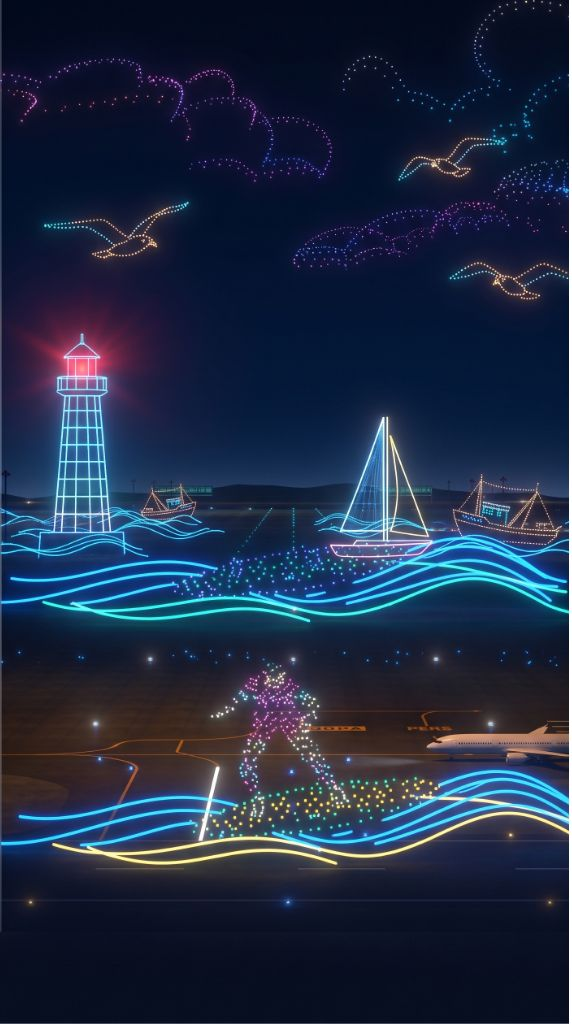
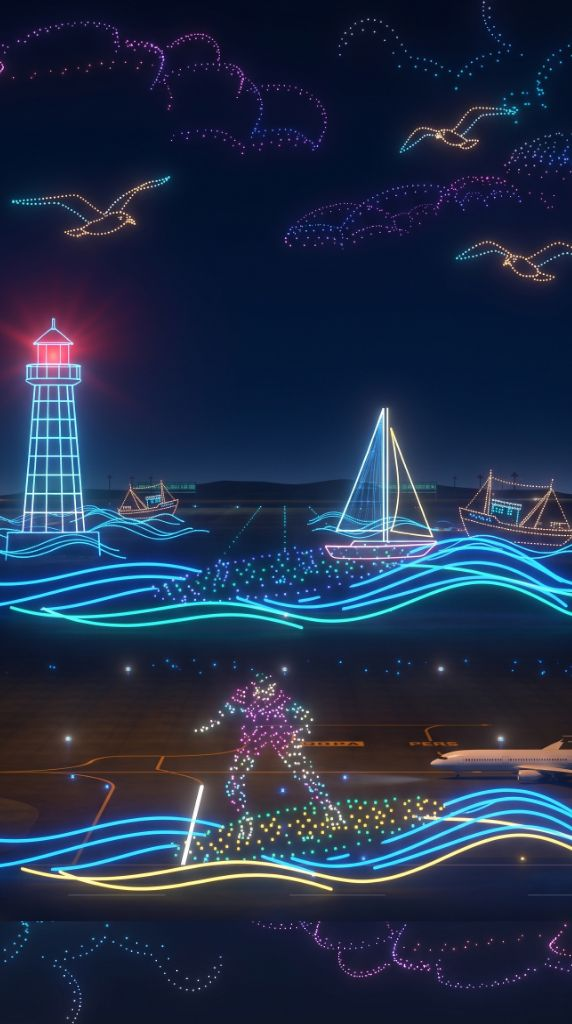
audio 스크롤 조정

diff --git a/script.js b/script.js
@@ -19,49 +19,49 @@ const finalDetailData = {
     // 1-1) 마스터플랜 ➔ 단계별 건설사업 5종
     "부지 조성": {
         img: './assets/images/construction/land_setup.jpg',
-        audio: './assets/audios/masterplan/land_setup.mp3',
+        audio: './assets/audios/masterplan/land_setup.MP3',
         desc: `1990년 6월, 공항 건설을 위해 다양한 후보지가 거론되었고, 항공기의 안전운항과 소음피해, 도심과의 접근성을 고려하여 영종도가 신공항부지로 선정되었습니다. \n신공항부지는 영종도, 용유도, 신불도, 삼목도 네 개의 섬 사이의 바다를 메워 조성되었으며, 총 넓이는 1700만평입니다.`
     },
     "1단계 건설사업": {
         img: './assets/images/construction/phase1.jpg',
-        audio: './assets/audios/masterplan/phase1.mp3',
+        audio: './assets/audios/masterplan/phase1.MP3',
         desc: "1단계 건설사업은 해상매립과 부지조성을 포함한 제1여객터미널과 제1교통센터, 주 관제탑, 첫 번째, 두 번째 활주로가 해당되며, 2001년 3월 29일에 개항했습니다."
     },
     "2단계 건설사업": {
         img: './assets/images/construction/phase2.jpg',
-        audio: './assets/audios/masterplan/phase2.mp3',
+        audio: './assets/audios/masterplan/phase2.MP3',
         desc: "2단계 건설사업은 탑승동과 제1계류장 관제탑, 제3활주로가 해당되며, 2008년 6월 20일에 오픈했습니다."
     },
     "3단계 건설사업": {
         img: './assets/images/construction/phase3.jpg',
-        audio: './assets/audios/masterplan/phase3.mp3',
+        audio: './assets/audios/masterplan/phase3.MP3',
         desc: "3단계 건설사업은 제 2여객터미널의 일부와 제 2교통센터, \n제 2계류장 관제탑과 공항 철도 연결 등이 해당되며, 2018년 1월 18일에 오픈했습니다."
     },
     "4단계 건설사업": {
         img: './assets/images/construction/phase4.jpg',
-        audio: './assets/audios/masterplan/phase4.mp3',
+        audio: './assets/audios/masterplan/phase4.MP3',
         desc: "4단계 건설사업은 제2여객터미널과 교통센터 및 주차 시설 확장, 제4활주로와 고속탈출유도로 건설 및 T2 진입도로와 내부연결도로 확충 등이 해당되며, 2024년 12월 3일 완성되었습니다."
     },
 
     // 1-2) 친환경 에너지 공항 서브메뉴
     "Green Innovation": {
         video: './assets/videos/eco/green_innovation.mp4',
-        audio: './assets/audios/eco/green_innovation.mp3',
+        audio: './assets/audios/eco/green_innovation.MP3',
         desc: `인천국제공항은 연간 1,700만 톤의 탄소를 배출하고 있으며, 2045년 탄소중립을 목표로 에너지 자립, 그린 모빌리티, 항공 탄소 저감, 생태공항 조성 등 중심으로 친환경공항으로의 전환을 적극적으로 추진하고 있습니다.`
     },
     "인천공항 녹색혁신": {
         video: './assets/videos/eco/green_innovation.mp4',
-        audio: './assets/audios/eco/green_innovation.mp3',
+        audio: './assets/audios/eco/green_innovation.MP3',
         desc: `인천국제공항은 연간 1,700만 톤의 탄소를 배출하고 있으며, 2045년 탄소중립을 목표로 에너지 자립, 그린 모빌리티, 항공 탄소 저감, 생태공항 조성 등 중심으로 친환경공항으로의 전환을 적극적으로 추진하고 있습니다.`
     },
     "태양광·지열 에너지": {
         video: './assets/videos/eco/solar_geo.mp4',
-        audio: './assets/audios/eco/solar_geo.mp3',
+        audio: './assets/audios/eco/solar_geo.MP3',
         desc: `태양광 구축을 통해 에너지 자립 RE100 달성에 기여하며, 민간투자를 통해 친환경 전력 생산을 늘려 환경 보호와 전기요금 절감 등을 도모하고 있습니다. 또한 제2여객터미널 지하에 있는 지열 우물을 조성하여 이를 히트펌프 시스템과 연계해 실내 냉/난방에 활용하고 있습니다.\n*RE100: 기업이 사용하는 전력의 100%를 재생에너지 전력으로 조달하겠다는 글로벌 이니셔티브(Renewable Electricity).`
     },
     "미래공항 에너지": {
         video: './assets/videos/eco/future_energy.mp4',
-        audio: './assets/audios/eco/future_energy.mp3',
+        audio: './assets/audios/eco/future_energy.MP3',
         desc: `연료전지 및 수소발전 등 공항산업에서 신재생에너지의 다각화를 위한 노력을 통해 RE100(2040) 조기 달성에 기여하고자 합니다. \n1.2MW용량의 연료전지를 선제도입하여 피크시간대 전력수요에 대응하기 위해 활용하고 있으며, 2040년 이후 수소항공기 도입에 대비해 수전해로 생산한 수소를 차량과 항공기에 활용하는 미래 전략을 구상하고 있습니다.`
     },
     "그린모빌리티 전환": {
@@ -88,12 +88,12 @@ const finalDetailData = {
     // 1-3) 스마트 AI 공항
     "공항에서 만나는 스마트 서비스": {
         video: './assets/videos/smart/shuttle.mp4',
-        audio: './assets/audios/smart/smart_shuttle.mp3',
+        audio: './assets/audios/smart/smart_shuttle.MP3',
         desc: "인천국제공항은 인공지능과 디지털 기술을 활용해 더욱 빠르고 편리한 공항 서비스를 제공하고 있습니다. 또한 생체인식 기반 스마트패스와 카트 로봇, 자율주행 모빌리티 등 디지털 기반 핵심 서비스를 도입해 정보 접근성을 높이고 여객의 편의를 최우선으로 하는 스마트 혁신공항으로 도약하고 있습니다."
     },
     "공항 밖, 손끝에서 시작되는 여정": {
         video: './assets/videos/smart/smartpass.mp4',
-        audio: './assets/audios/smart/smart_pass.mp3',
+        audio: './assets/audios/smart/smart_pass.MP3',
         desc: "인천국제공항 플랫폼을 활용해 비행의 첫걸음을 집에서도 준비할 수 있습니다. 인천공항+는 공항 이용객을 위한 공식 안내 앱으로 다양한 이용 정보를 제공합니다. 또한 안면 인식 기반 출국 심사 앱에 여권과 얼굴 정보를 미리 등록하면 전용 출국장을 통해 더 빠르게 출국할 수 있습니다. 뿐만 아니라 공항 밖 지정 장소에서 수하물을 미리 위탁하거나, 사전 체크인을 이용해 더욱 편리하게 출국할 수 있는 서비스도 제공하고 있습니다."
     },
 
@@ -113,7 +113,7 @@ const finalDetailData = {
     "Organic": {
         title: 'Aerograph3',
         video: './assets/videos/led/organic.mp4',
-        audio: './assets/audios/led/organic.mp3',
+        audio: './assets/audios/led/organic.MP3',
         desc: "인천공항의 저탄소·친환경 구현을 위해 실천 중인 에너지 경영의 데이터를 활용한 유기적 그래픽 형태입니다. 글로벌 메가 허브 환경 기반을 의미하는 항공화물 통계를 초록색 계열로 표현하였고, 국내선과 국제선의 데이터를 자연스럽게 변화시키고 확장하는 형태로 연출했습니다."
     },
 
@@ -153,10 +153,10 @@ const finalDetailData = {
     "Bridge": {
         title: ['1단계 건설사업', '2단계 건설사업', '3단계 건설사업', '4단계 건설사업'],
         media: [
-            { type: 'video', src: './assets/videos/bridge/bridge_01.mp4' },
-            { type: 'video', src: './assets/videos/bridge/bridge_02.mp4' },
-            { type: 'video', src: './assets/videos/bridge/bridge_03.mp4' },
-            { type: 'video', src: './assets/videos/bridge/bridge_04.mp4' }
+            { type: 'video', src: './assets/videos/bridge/bridge_01.MP4' },
+            { type: 'video', src: './assets/videos/bridge/bridge_02.MP4' },
+            { type: 'video', src: './assets/videos/bridge/bridge_03.MP4' },
+            { type: 'video', src: './assets/videos/bridge/bridge_04.MP4' }
         ],
         desc: [
             "이 곳 브릿지에서는 1단계부터 4단계까지의 단계별 건설 사업을 권민호 작가의 드로잉 작품으로 만나보실 수 있습니다. \n첫 번째 작품은 인천공항의 1단계 건설 사업을 담고 있습니다. 중앙에 위치한 거대한 두 개의 크레인이 인천공항의 심볼을 바다 위로 올리고 있는 모습이 굉장히 인상적인데요, 드넓은 바다를 매립하여 건설한 인천공항을 상징적으로 표현한 것입니다. 그리고 우측에 보이는 제비는 예로부터 보라색 제비가 많이 산다고해서 자연도라고도 불렸던 영종도의 특징을 나타낸 것입니다. 또한 인천공항의 초기 명칭인 <수도권신국제공항> 글자도 보실 수 있으며 개항 후 첫 번째로 착륙한 아시아나 항공기도 확인하실 수 있습니다.",

diff --git a/style.css b/style.css
@@ -67,32 +67,25 @@ html, body {
 }
 
 ::-webkit-scrollbar-thumb {
-    background-color: transparent;
+    background-color: rgba(148, 163, 184, 0.28); /* 살짝 비치는 반투명 슬레이트 */
     border-radius: 10px;
     transition: background-color 0.25s ease;
 }
 
-/* PC 환경: 마우스 호버 시 부드러운 회색/포인트 컬러 노출 */
+/* 3. PC 환경: 마우스 호버 시 포인트 컬러 노출 */
 @media (hover: hover) and (pointer: fine) {
     *:hover::-webkit-scrollbar-thumb {
-        background-color: rgba(100, 116, 139, 0.35);
+        background-color: rgba(100, 116, 139, 0.45);
     }
     *:hover::-webkit-scrollbar-thumb:hover {
-        background-color: rgba(14, 165, 233, 0.7);
+        background-color: rgba(56, 189, 248, 0.7); /* 스카이블루 강조 */
     }
 }
 
-/* 모바일 터치 기기: 스크롤바 UI를 완전 차단하여 깔끔함 유지 (스크롤은 100% 정상 작동) */
-@media (hover: none) and (pointer: coarse) {
-    * {
-        -ms-overflow-style: none !important; /* IE, Edge */
-        scrollbar-width: none !important;    /* Firefox */
-    }
-    *::-webkit-scrollbar {
-        display: none !important;
-        width: 0 !important;
-        height: 0 !important;
-    }
+/* 4. 모바일 환경: 스크롤바를 억지로 없애지 않고 은은하게 노출 (Firefox / Edge 호환) */
+* {
+    scrollbar-width: thin; /* Firefox: 얇은 두께 */
+    scrollbar-color: rgba(148, 163, 184, 0.28) transparent; /* 은은한 색상 */
 }
 
 /* ==========================================================================
@@ -104,7 +97,6 @@ html, body {
     max-width: 480px;
     max-height: 820px;
     position: relative;
-    overflow: hidden;
     display: flex;
     flex-direction: column;
     justify-content: space-between;
@@ -115,6 +107,15 @@ html, body {
     background-repeat: no-repeat;
     border-radius: 24px;
     box-shadow: 0 25px 50px rgba(0, 0, 0, 0.7);
+    /* 👇 [핵심] 홈 화면에서도 글씨 확대 시 가로/세로 잘림 없이 스크롤 지원 */
+    overflow-x: auto !important;
+    overflow-y: auto !important;
+    -webkit-overflow-scrolling: touch;
+}
+
+/* 홈 화면 어두운 배경에 맞춘 스크롤바 밝기 보정 */
+.welcome-screen::-webkit-scrollbar-thumb {
+    background-color: rgba(255, 255, 255, 0.22);
 }
 
 .hidden-admin-trigger {
@@ -442,9 +443,13 @@ html, body {
     transition: background 0.3s ease;
     
     /* 👇 스크롤 허용 및 터치 관성 스크롤 복원 */
-    overflow-x: hidden !important;
+    overflow-x: auto !important;
     overflow-y: auto !important;
     -webkit-overflow-scrolling: touch;
+}
+
+.depth-screen::-webkit-scrollbar-thumb {
+    background-color: rgba(71, 85, 105, 0.25);
 }
 
 .depth-screen.active {
@@ -460,7 +465,9 @@ html, body {
     position: relative; /* 기준점 설정 */
     padding: 0 10px;
     box-sizing: border-box;
-    margin-bottom: 24px;
+    margin-bottom: 20px;
+    z-index: 10;
+    flex-shrink: 0; /* 내용이 길어져도 뒤로가기 바가 찌그러지지 않음 */
 }
 
 .back-btn {
